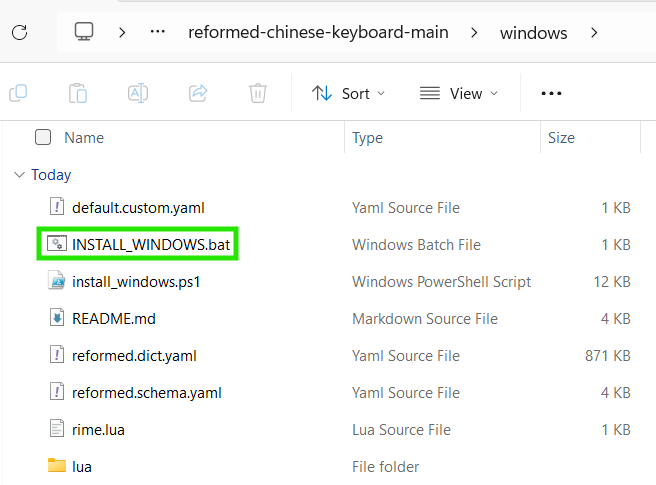
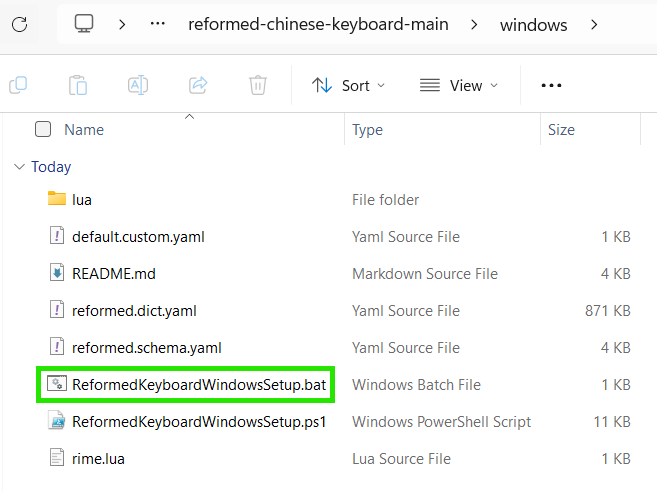
Update macOS README with new Squirrel install screenshots and updated Windows screenshot

diff --git a/macOS/README.md b/macOS/README.md
@@ -1,4 +1,4 @@
-# Reformed Chinese Keyboard - macOS Installation Guide
+# Reformed Chinese Keyboard for macOS Installation Guide
 
 ### Step 1: Download this GitHub repo
 
@@ -10,7 +10,21 @@ Double-click the downloaded `reformed-chinese-keyboard-main.zip` file to extract
 
 ### Step 2: Run installation
 
-Inside your extracted `reformed-chinese-keyboard-main` folder, go into `macOS` subfolder and double-click `ReformedKeyboardMacSetup.command` which will open a Terminal to install Reformed Chinese keyboard (specifically Homebrew and 鼠鬚管 Squirrel) for you. Follow the prompts shown in Terminal
+Inside your extracted `reformed-chinese-keyboard-main` folder, go into `macOS` subfolder. **Right-click** `ReformedKeyboardMacSetup.command` and click `Open` which will  install Reformed Chinese keyboard (Homebrew and 鼠鬚管 Squirrel) for you
+
+![ReformedKeyboardMacSetup.command](../media/squirrel/squirrel1.png)
+
+If you see a security pop-up asking `Are you sure you want to open it?`, click `Open`
+
+![ReformedKeyboardMacSetup.command](../media/squirrel/squirrel2.png)
+
+Follow the prompts shown in the opened Terminal window. Specifically, enter your `sudo` password (same password you use to log in to your Mac user account) and press `Return` or `Enter` key when prompted
+
+![ReformedKeyboardMacSetup.command](../media/squirrel/squirrel3.png)
+
+![ReformedKeyboardMacSetup.command](../media/squirrel/squirrel4.png)
+
+![ReformedKeyboardMacSetup.command](../media/squirrel/squirrel5.png)
 
 ### Step 3: Add Squirrel to Input Sources
 
